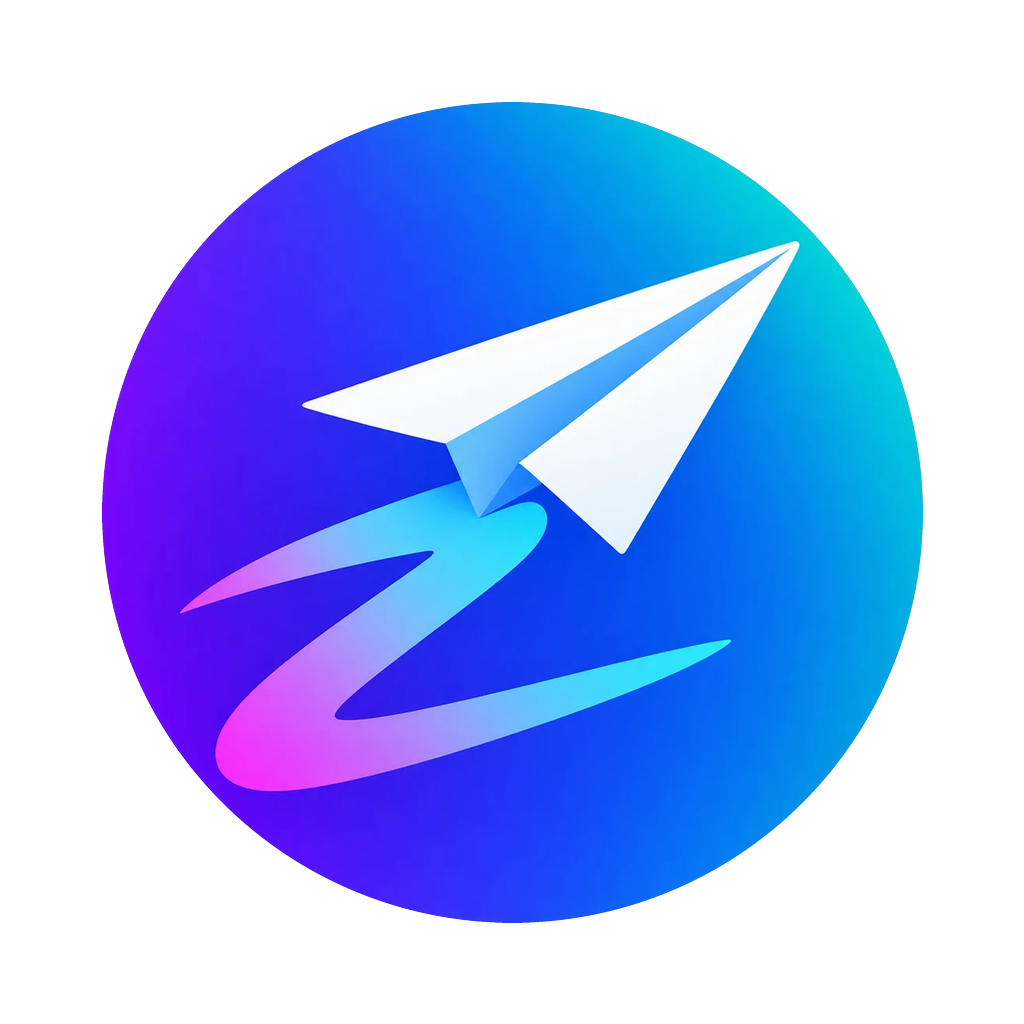
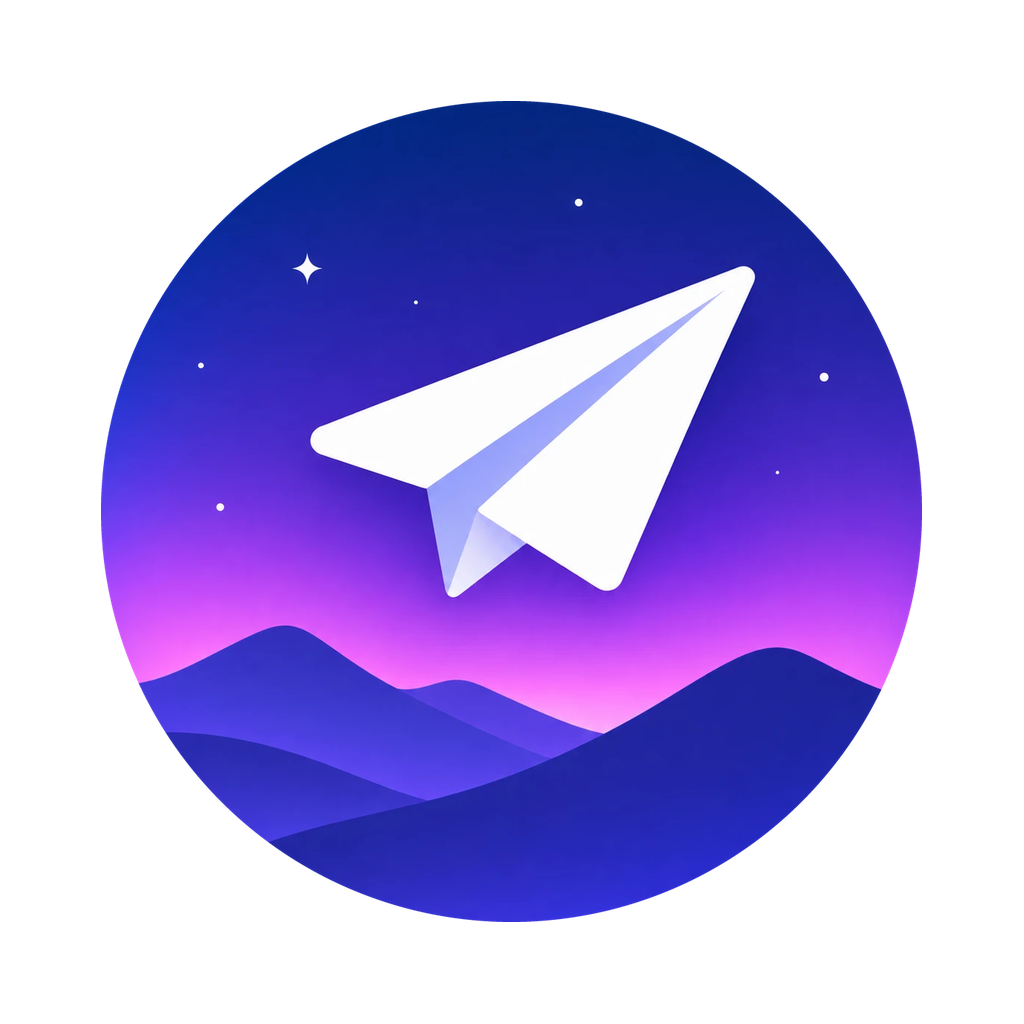
Тема «Ночное небо» и новая иконка, версия 0.8.0
- Тема «Ночное небо»: ночная тема с фиолетово-розовым градиентом
  исходящих, тёмно-синими входящими и пиксельными обоями неба.
  Включается сама один раз при первом запуске (и после обновления),
  дальше выбор пользователя сохраняется.
- Обводка сообщений 1,5 pt: сиреневая у входящих, розовая у исходящих,
  переключатель в настройках ZalupaGram → Оформление.
- Новая иконка: бумажный самолётик над ночными горами.

diff --git a/submodules/ZalupaGram/Sources/ZalupaGramSettingsController.swift b/submodules/ZalupaGram/Sources/ZalupaGramSettingsController.swift
@@ -75,9 +75,11 @@ private enum ZalupaGramSettingsEntry: ItemListNodeEntry {
     case hiddenChangePin(String)
     case hiddenInfo(String)
     case appearanceHeader(String)
+    case appearanceSky(String)
     case appearanceDark(String)
     case appearanceLight(String)
     case appearanceSystem(String)
+    case appearanceOutline(String, Bool)
     case appearanceInfo(String)
     case animationsHeader(String)
     case animationsDelay(String, String)
@@ -104,7 +106,7 @@ private enum ZalupaGramSettingsEntry: ItemListNodeEntry {
             return ZalupaGramSettingsSection.keep.rawValue
         case .hiddenHeader, .hiddenAction, .hiddenChangePin, .hiddenInfo:
             return ZalupaGramSettingsSection.hidden.rawValue
-        case .appearanceHeader, .appearanceDark, .appearanceLight, .appearanceSystem, .appearanceInfo:
+        case .appearanceHeader, .appearanceSky, .appearanceDark, .appearanceLight, .appearanceSystem, .appearanceOutline, .appearanceInfo:
             return ZalupaGramSettingsSection.appearance.rawValue
         case .animationsHeader, .animationsDelay, .animationsInfo:
             return ZalupaGramSettingsSection.animations.rawValue
@@ -154,6 +156,8 @@ private enum ZalupaGramSettingsEntry: ItemListNodeEntry {
         case .hiddenInfo:
             return 53
         case .appearanceHeader:
+            return 54
+        case .appearanceSky:
             return 55
         case .appearanceDark:
             return 56
@@ -161,14 +165,16 @@ private enum ZalupaGramSettingsEntry: ItemListNodeEntry {
             return 57
         case .appearanceSystem:
             return 58
-        case .appearanceInfo:
+        case .appearanceOutline:
             return 59
-        case .animationsHeader:
+        case .appearanceInfo:
             return 60
-        case .animationsDelay:
+        case .animationsHeader:
             return 61
-        case .animationsInfo:
+        case .animationsDelay:
             return 62
+        case .animationsInfo:
+            return 63
         case .tabsHeader:
             return 65
         case .karlanTab:
@@ -282,6 +288,11 @@ private enum ZalupaGramSettingsEntry: ItemListNodeEntry {
                 return true
             }
             return false
+        case let .appearanceSky(text):
+            if case .appearanceSky(text) = rhs {
+                return true
+            }
+            return false
         case let .appearanceDark(text):
             if case .appearanceDark(text) = rhs {
                 return true
@@ -294,6 +305,11 @@ private enum ZalupaGramSettingsEntry: ItemListNodeEntry {
             return false
         case let .appearanceSystem(text):
             if case .appearanceSystem(text) = rhs {
+                return true
+            }
+            return false
+        case let .appearanceOutline(text, value):
+            if case .appearanceOutline(text, value) = rhs {
                 return true
             }
             return false
@@ -416,6 +432,10 @@ private enum ZalupaGramSettingsEntry: ItemListNodeEntry {
             return ItemListActionItem(presentationData: presentationData, systemStyle: .glass, title: text, kind: .generic, alignment: .natural, sectionId: self.section, style: .blocks, action: {
                 arguments.changePin()
             })
+        case let .appearanceSky(text):
+            return ItemListActionItem(presentationData: presentationData, systemStyle: .glass, title: text, kind: .generic, alignment: .natural, sectionId: self.section, style: .blocks, action: {
+                arguments.applyTheme(.sky)
+            })
         case let .appearanceDark(text):
             return ItemListActionItem(presentationData: presentationData, systemStyle: .glass, title: text, kind: .generic, alignment: .natural, sectionId: self.section, style: .blocks, action: {
                 arguments.applyTheme(.dark)
@@ -427,6 +447,10 @@ private enum ZalupaGramSettingsEntry: ItemListNodeEntry {
         case let .appearanceSystem(text):
             return ItemListActionItem(presentationData: presentationData, systemStyle: .glass, title: text, kind: .generic, alignment: .natural, sectionId: self.section, style: .blocks, action: {
                 arguments.applyTheme(.system)
+            })
+        case let .appearanceOutline(text, value):
+            return ItemListSwitchItem(presentationData: presentationData, systemStyle: .glass, title: text, value: value, sectionId: self.section, style: .blocks, updated: { value in
+                arguments.setOption(.bubbleOutline, value)
             })
         case let .chatsTemplates(text, value):
             return ItemListDisclosureItem(presentationData: presentationData, systemStyle: .glass, title: text, label: value, sectionId: self.section, style: .blocks, action: {
@@ -507,10 +531,12 @@ private func zalupaGramSettingsEntries(presentationData: PresentationData, delet
     )))
 
     entries.append(.appearanceHeader(t("APPEARANCE", "ОФОРМЛЕНИЕ")))
+    entries.append(.appearanceSky(t("ZalupaGram theme, night sky", "Тема ZalupaGram, ночное небо")))
     entries.append(.appearanceDark(t("ZalupaGram theme, dark", "Тема ZalupaGram, тёмная")))
     entries.append(.appearanceLight(t("ZalupaGram theme, light", "Тема ZalupaGram, светлая")))
     entries.append(.appearanceSystem(t("ZalupaGram theme, like iOS", "Тема ZalupaGram, как в системе")))
-    entries.append(.appearanceInfo(t("Violet from the icon. «Like iOS» is light by day and dark by night; dark and light turn the automatic night theme off. The usual themes are in Settings → Appearance.", "Фиолетовая, как иконка. «Как в системе» — светлая днём и тёмная ночью; тёмная и светлая выключают автоночь. Обычные темы — в Настройки → Оформление.")))
+    entries.append(.appearanceOutline(t("Message outlines in «Night sky»", "Обводка сообщений в «Ночном небе»"), ZalupaGramCore.option(.bubbleOutline)))
+    entries.append(.appearanceInfo(t("«Night sky» is the night sky of the icon: pixel art wallpaper, violet-pink messages with outlines. Violet from the icon. «Like iOS» is light by day and dark by night; the others turn the automatic night theme off. The usual themes are in Settings → Appearance.", "«Ночное небо» — небо с иконки: пиксельные обои, фиолетово-розовые сообщения с обводкой. «Как в системе» — светлая днём и тёмная ночью, остальные выключают автоночь. Обычные темы — в Настройки → Оформление.")))
 
     entries.append(.animationsHeader(t("ANIMATED PHRASES", "АНИМИРОВАННЫЕ ФРАЗЫ")))
     entries.append(.animationsDelay(t("Time per frame", "Время на кадр"), formatSeconds(zalupaGramAnimationFrameDelay, ru: ru)))
@@ -549,6 +575,9 @@ public func zalupaGramSettingsController(context: AccountContext) -> ViewControl
 
     let arguments = ZalupaGramSettingsArguments(setOption: { option, value in
         ZalupaGramCore.setOption(option, value)
+        if option == .bubbleOutline {
+            zalupaGramRefreshSkyOutline(context: context)
+        }
         reload()
     }, clearExceptions: {
         ZalupaGramCore.clearGhostExceptions()

diff --git a/submodules/ZalupaGram/Sources/ZalupaGramHiddenChats.swift b/submodules/ZalupaGram/Sources/ZalupaGramHiddenChats.swift
@@ -8,6 +8,8 @@ import TelegramPresentationData
 import TelegramUIPreferences
 import PresentationDataUtils
 import AccountContext
+import AppBundle
+import ZalupaGramCore
 import PromptUI
 
 // ZalupaGram fork: chats hidden behind a PIN, the panic link and the
@@ -214,6 +216,43 @@ public enum ZalupaGramThemeVariant {
     case light
     // Light by day and dark by night, following iOS.
     case system
+    // «Night sky»: the night theme with violet -> pink bubbles, the pixel art
+    // wallpaper and bubble outlines, the same as in ZalupaGram Desktop.
+    case sky
+}
+
+private let zalupaGramSkyAppliedKey = "zg_sky_theme_applied"
+
+private func zalupaGramSkyAccent(outline: Bool) -> PresentationThemeAccentColor {
+    let colors = (outline ? zalupaGramSkyBubbleColors : zalupaGramSkyPlainBubbleColors).map { 0xff000000 | $0 }
+    return PresentationThemeAccentColor(index: outline ? 7703 : 7704, baseColor: .custom, accentColor: 0xFFB36AF3, bubbleColors: colors)
+}
+
+private func zalupaGramIsSkyAccent(_ accent: PresentationThemeAccentColor?) -> Bool {
+    return accent?.index == 7703 || accent?.index == 7704
+}
+
+// The bundled wallpaper stored as a local image wallpaper, like a photo
+// picked from the gallery. PNG keeps the pixel art sharp.
+private func zalupaGramSkyWallpaper(context: AccountContext) -> TelegramWallpaper? {
+    guard let image = UIImage(bundleImageName: "ZalupaGram/SkyWallpaper"), let data = image.pngData() else {
+        return nil
+    }
+    let size = CGSize(width: image.size.width * image.scale, height: image.size.height * image.scale)
+    let thumbnailSize = size.fitted(CGSize(width: 320.0, height: 320.0))
+    guard let thumbnail = generateScaledImage(image: image, size: thumbnailSize, scale: 1.0), let thumbnailData = thumbnail.jpegData(compressionQuality: 0.6) else {
+        return nil
+    }
+    let store: (Data) -> LocalFileMediaResource = { data in
+        let resource = LocalFileMediaResource(fileId: Int64.random(in: Int64.min ... Int64.max))
+        context.sharedContext.accountManager.resources.storeResourceData(id: EngineMediaResource.Id(resource.id), data: data, synchronous: true)
+        context.engine.resources.storeResourceData(id: EngineMediaResource.Id(resource.id), data: data, synchronous: true)
+        return resource
+    }
+    return .image([
+        TelegramMediaImageRepresentation(dimensions: PixelDimensions(thumbnailSize), resource: store(thumbnailData), progressiveSizes: [], immediateThumbnailData: nil, hasVideo: false, isPersonal: false),
+        TelegramMediaImageRepresentation(dimensions: PixelDimensions(size), resource: store(data), progressiveSizes: [], immediateThumbnailData: nil, hasVideo: false, isPersonal: false)
+    ], WallpaperSettings())
 }
 
 // Violet from the icon, the same as in ZalupaGram Desktop. Dark and light
@@ -222,22 +261,57 @@ public enum ZalupaGramThemeVariant {
 public func zalupaGramApplyTheme(context: AccountContext, variant: ZalupaGramThemeVariant) {
     let night: PresentationThemeReference = .builtin(.night)
     let day: PresentationThemeReference = .builtin(.day)
-    let nightAccent = PresentationThemeAccentColor(index: 7701, baseColor: .custom, accentColor: 0xFF9B7BFF, bubbleColors: [0xFF5B3FC4])
+    let nightAccent: PresentationThemeAccentColor
+    if variant == .sky {
+        nightAccent = zalupaGramSkyAccent(outline: ZalupaGramCore.option(.bubbleOutline))
+    } else {
+        nightAccent = PresentationThemeAccentColor(index: 7701, baseColor: .custom, accentColor: 0xFF9B7BFF, bubbleColors: [0xFF5B3FC4])
+    }
     let dayAccent = PresentationThemeAccentColor(index: 7702, baseColor: .custom, accentColor: 0xFF7C4DFF, bubbleColors: [0xFFE9E0FF])
-    let reference = variant == .dark ? night : day
+    let reference = (variant == .dark || variant == .sky) ? night : day
+    let skyWallpaper = variant == .sky ? zalupaGramSkyWallpaper(context: context) : nil
     let _ = updatePresentationThemeSettingsInteractively(accountManager: context.sharedContext.accountManager, { current in
         var accentColors = current.themeSpecificAccentColors
         accentColors[night.index] = nightAccent
         accentColors[day.index] = dayAccent
+        var chatWallpapers = current.themeSpecificChatWallpapers
+        if let skyWallpaper {
+            for outline in [true, false] {
+                chatWallpapers[coloredThemeIndex(reference: night, accentColor: zalupaGramSkyAccent(outline: outline))] = skyWallpaper
+            }
+        }
         var automaticThemeSwitchSetting = current.automaticThemeSwitchSetting
         automaticThemeSwitchSetting.theme = night
         switch variant {
-        case .dark, .light:
+        case .dark, .light, .sky:
             automaticThemeSwitchSetting.force = false
             automaticThemeSwitchSetting.trigger = .explicitNone
         case .system:
             automaticThemeSwitchSetting.trigger = .system
         }
-        return PresentationThemeSettings(theme: reference, themePreferredBaseTheme: current.themePreferredBaseTheme, themeSpecificAccentColors: accentColors, themeSpecificChatWallpapers: current.themeSpecificChatWallpapers, useSystemFont: current.useSystemFont, fontSize: current.fontSize, listsFontSize: current.listsFontSize, chatBubbleSettings: current.chatBubbleSettings, automaticThemeSwitchSetting: automaticThemeSwitchSetting, largeEmoji: current.largeEmoji, reduceMotion: current.reduceMotion)
+        return PresentationThemeSettings(theme: reference, themePreferredBaseTheme: current.themePreferredBaseTheme, themeSpecificAccentColors: accentColors, themeSpecificChatWallpapers: chatWallpapers, useSystemFont: current.useSystemFont, fontSize: current.fontSize, listsFontSize: current.listsFontSize, chatBubbleSettings: current.chatBubbleSettings, automaticThemeSwitchSetting: automaticThemeSwitchSetting, largeEmoji: current.largeEmoji, reduceMotion: current.reduceMotion)
+    }).startStandalone()
+}
+
+// «Night sky» is the default theme: applied once on the first start of a
+// version that has it, after that the user's choice stays.
+public func zalupaGramApplySkyThemeOnce(context: AccountContext) {
+    if UserDefaults.standard.bool(forKey: zalupaGramSkyAppliedKey) {
+        return
+    }
+    UserDefaults.standard.set(true, forKey: zalupaGramSkyAppliedKey)
+    zalupaGramApplyTheme(context: context, variant: .sky)
+}
+
+// The outline switch picks the «Night sky» variant with or without outlines.
+public func zalupaGramRefreshSkyOutline(context: AccountContext) {
+    let night: PresentationThemeReference = .builtin(.night)
+    let _ = updatePresentationThemeSettingsInteractively(accountManager: context.sharedContext.accountManager, { current in
+        guard let accent = current.themeSpecificAccentColors[night.index], zalupaGramIsSkyAccent(accent) else {
+            return current
+        }
+        var accentColors = current.themeSpecificAccentColors
+        accentColors[night.index] = zalupaGramSkyAccent(outline: ZalupaGramCore.option(.bubbleOutline))
+        return current.withUpdatedThemeSpecificAccentColors(accentColors)
     }).startStandalone()
 }

diff --git a/submodules/TelegramPresentationData/Sources/ZalupaGramSky.swift b/submodules/TelegramPresentationData/Sources/ZalupaGramSky.swift
@@ -1,0 +1,55 @@
+import Foundation
+import UIKit
+import Display
+
+// ZalupaGram «Night sky» theme: the night theme with a ZalupaGram accent
+// whose outgoing bubbles are this violet -> pink gradient. The last color
+// differs by one unit when the bubble outlines are off, so the two variants
+// are different themes and switching the outlines rebuilds the bubbles.
+public let zalupaGramSkyBubbleColors: [UInt32] = [0x6d3fe6, 0xd35de6]
+public let zalupaGramSkyPlainBubbleColors: [UInt32] = [0x6d3fe6, 0xd35de5]
+
+private let zalupaGramSkyOutlineIncoming = UIColor(rgb: 0x8f6cff)
+private let zalupaGramSkyOutlineOutgoing = UIColor(rgb: 0xf0a6ff)
+private let zalupaGramSkyIncomingFill = UIColor(rgb: 0x14143c)
+
+// Outlines are drawn 1.5 pt wide instead of the usual hairline.
+let zalupaGramSkyOutlineWidth: CGFloat = 1.5
+
+func zalupaGramIsSkyOutline(_ color: UIColor) -> Bool {
+    let rgb = color.rgb
+    return rgb == zalupaGramSkyOutlineIncoming.rgb || rgb == zalupaGramSkyOutlineOutgoing.rgb
+}
+
+// Navy incoming bubbles and, if they are on, the outlines.
+func zalupaGramCustomizeSkyChat(_ chat: PresentationThemeChat, bubbleColors: [UInt32]) -> PresentationThemeChat {
+    let colors = bubbleColors.map { $0 & 0xffffff }
+    let outline: Bool
+    if colors == zalupaGramSkyBubbleColors {
+        outline = true
+    } else if colors == zalupaGramSkyPlainBubbleColors {
+        outline = false
+    } else {
+        return chat
+    }
+    let incoming = chat.message.incoming.bubble
+    let outgoing = chat.message.outgoing.bubble
+    let incomingStroke = outline ? zalupaGramSkyOutlineIncoming : UIColor.clear
+    let outgoingStroke = outline ? zalupaGramSkyOutlineOutgoing : UIColor.clear
+    return chat.withUpdated(
+        message: chat.message.withUpdated(
+            incoming: chat.message.incoming.withUpdated(
+                bubble: incoming.withUpdated(
+                    withWallpaper: incoming.withWallpaper.withUpdated(fill: [zalupaGramSkyIncomingFill], stroke: incomingStroke),
+                    withoutWallpaper: incoming.withoutWallpaper.withUpdated(fill: [zalupaGramSkyIncomingFill], stroke: incomingStroke)
+                )
+            ),
+            outgoing: chat.message.outgoing.withUpdated(
+                bubble: outgoing.withUpdated(
+                    withWallpaper: outgoing.withWallpaper.withUpdated(stroke: outgoingStroke),
+                    withoutWallpaper: outgoing.withoutWallpaper.withUpdated(stroke: outgoingStroke)
+                )
+            )
+        )
+    )
+}

diff --git a/submodules/ZalupaGram/Sources/ZalupaGramFeatures.swift b/submodules/ZalupaGram/Sources/ZalupaGramFeatures.swift
@@ -19,6 +19,8 @@ private struct Feature {
 }
 
 private let features: [Feature] = [
+    Feature(version: "0.8.0", icon: "🌌", title: ("Night sky theme", "Тема «Ночное небо»"), text: ("Pixel art wallpaper, violet-pink messages with outlines, on by default.", "Пиксельные обои, фиолетово-розовые сообщения с обводкой, включена сразу.")),
+    Feature(version: "0.8.0", icon: "✈", title: ("New icon", "Новая иконка"), text: ("A paper plane over the night mountains.", "Бумажный самолётик над ночными горами.")),
     Feature(version: "0.7.2", icon: "🛡", title: ("Karlan without a black screen", "Карлан без чёрного экрана"), text: ("The site goes like from a PC in the same network: TCP over IPv4 through Wi-Fi, no VPN needed.", "Сайт открывается так же, как с ПК в той же сети: TCP по IPv4 через Wi-Fi, без VPN.")),
     Feature(version: "0.7.1", icon: "🔄", title: ("Karlan without a black screen", "Карлан без чёрного экрана"), text: ("The page comes back by itself after the app was in the background, «Reload» starts it over, errors are shown.", "Страница сама оживает после фона, «Обновить» запускает её заново, ошибки показываются.")),
     Feature(version: "0.7.0", icon: "🌍", title: ("Karlan", "Карлан"), text: ("zapostit.com/shevtsov in its own tab next to the chats.", "zapostit.com/shevtsov в своей вкладке рядом с чатами.")),

diff --git a/submodules/TelegramUI/Sources/AppDelegate.swift b/submodules/TelegramUI/Sources/AppDelegate.swift
@@ -1458,6 +1458,8 @@ private func extractAccountManagerState(records: AccountRecordsView<TelegramAcco
                     self.resetIntentsIfNeeded(context: context.context)
                     // ZalupaGram: look for a new version in the releases repo.
                     zalupaGramCheckForUpdates(context: context.context, manual: false)
+                    // ZalupaGram: «Night sky» is the default theme.
+                    zalupaGramApplySkyThemeOnce(context: context.context)
                     self.crashReportPromptDisposable.set(setupCrashReportPrompt(context: context.context, isInternalBuild: buildConfig.isInternalBuild, navigationController: context.rootController, present: { [weak appDelegate = self, weak applicationContext = context] controller in
                         guard let appDelegate, let applicationContext, appDelegate.contextValue === applicationContext else { return }
                         appDelegate.mainWindow.present(controller, on: .root)

diff --git a/submodules/ZalupaGramCore/Sources/ZalupaGramCore.swift b/submodules/ZalupaGramCore/Sources/ZalupaGramCore.swift
@@ -18,10 +18,11 @@ public enum ZalupaGramCore {
         case keepEdits = "zg_keep_edits" // Previous versions of edited messages.
         case profileHistory = "zg_profile_history" // Name, username and photo changes of users.
         case localPins = "zg_local_pins" // Pin chats over the server limit, in the app only.
+        case bubbleOutline = "zg_bubble_outline" // Outlines around bubbles in the «Night sky» theme.
 
         var defaultValue: Bool {
             switch self {
-            case .timeWithSeconds, .stripTracking, .localTranscribe, .freeTranslation, .noLinkPreviews, .keepDeleted, .keepEdits, .profileHistory, .localPins:
+            case .timeWithSeconds, .stripTracking, .localTranscribe, .freeTranslation, .noLinkPreviews, .keepDeleted, .keepEdits, .profileHistory, .localPins, .bubbleOutline:
                 return true
             default:
                 return false

diff --git a/submodules/TelegramPresentationData/Sources/ChatMessageBubbleImages.swift b/submodules/TelegramPresentationData/Sources/ChatMessageBubbleImages.swift
@@ -256,7 +256,11 @@ public func messageBubbleImage(maxCornerRadius: CGFloat, minCornerRadius: CGFloa
             innerExtension = 0.25
         }
         
-        if abs(UIScreenPixel - 0.5) < CGFloat.ulpOfOne {
+        if zalupaGramIsSkyOutline(strokeColor) {
+            // ZalupaGram: thick «Night sky» outlines, centered on the edge.
+            borderWidth = zalupaGramSkyOutlineWidth
+            borderOffset = 0.0
+        } else if abs(UIScreenPixel - 0.5) < CGFloat.ulpOfOne {
             borderWidth = UIScreenPixel + innerExtension
             borderOffset = -innerExtension / 2.0 + UIScreenPixel / 2.0
         } else {

diff --git a/submodules/TelegramPresentationData/Sources/DefaultDarkPresentationTheme.swift b/submodules/TelegramPresentationData/Sources/DefaultDarkPresentationTheme.swift
@@ -307,6 +307,8 @@ public func customizeDefaultDarkPresentationTheme(theme: PresentationTheme, edit
             badgeTextColor: badgeTextColor
         )
     )
+    // ZalupaGram: «Night sky» bubbles.
+    chat = zalupaGramCustomizeSkyChat(chat, bubbleColors: bubbleColors)
     
     return PresentationTheme(
         name: title.flatMap { .custom($0) } ?? theme.name,
